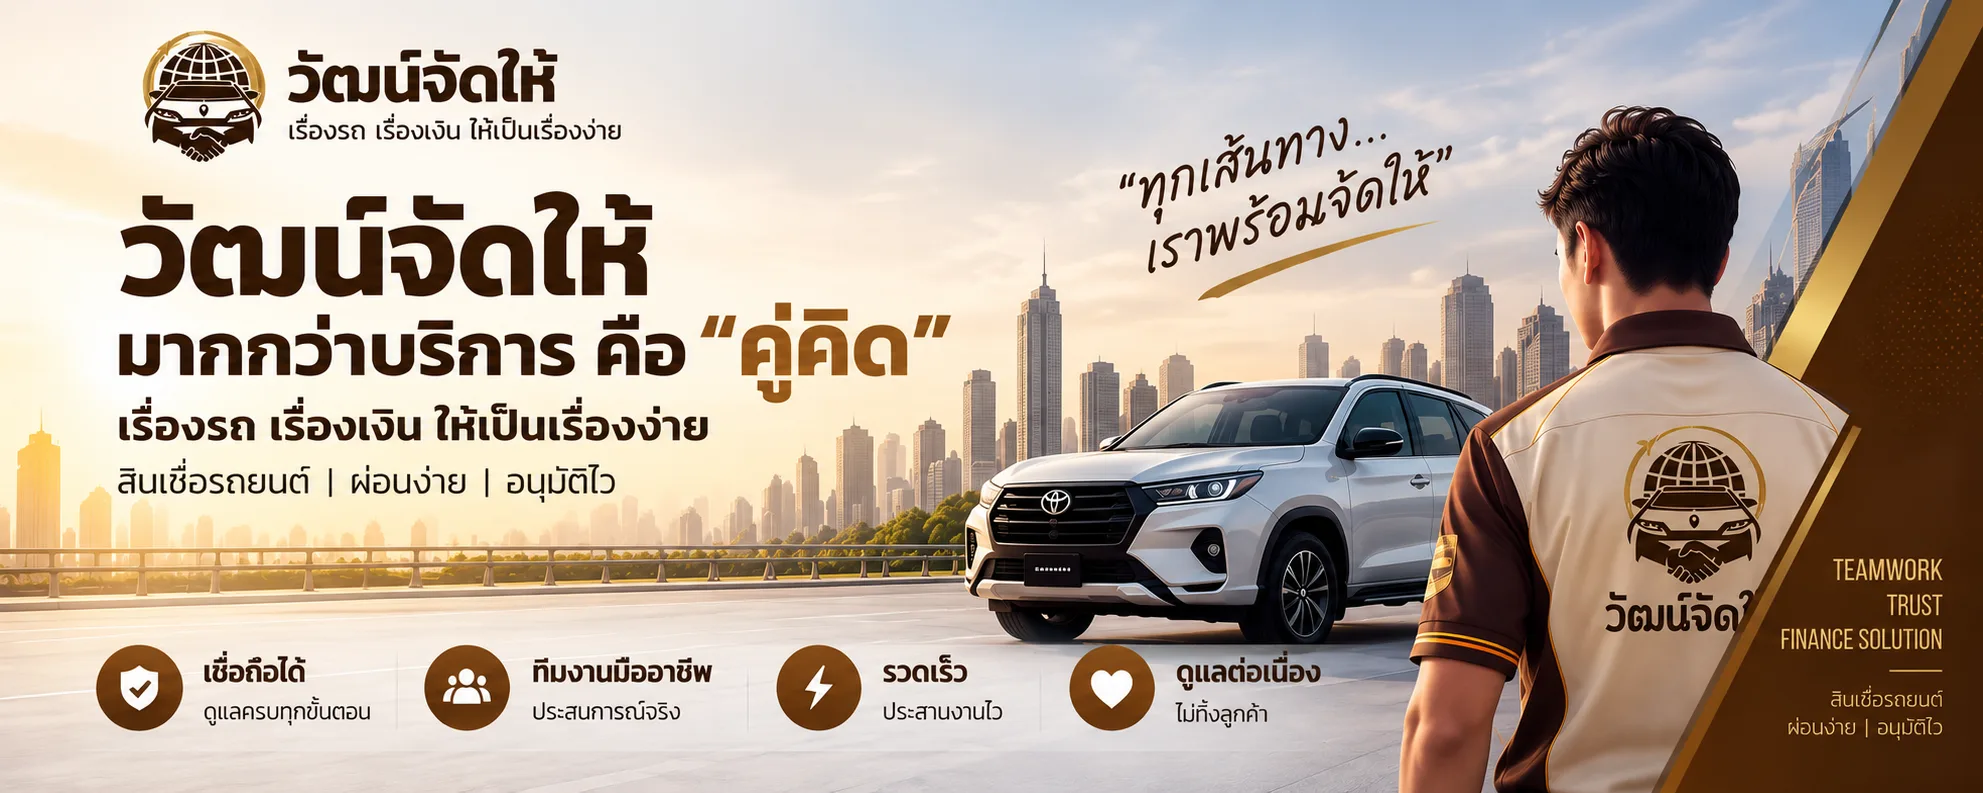
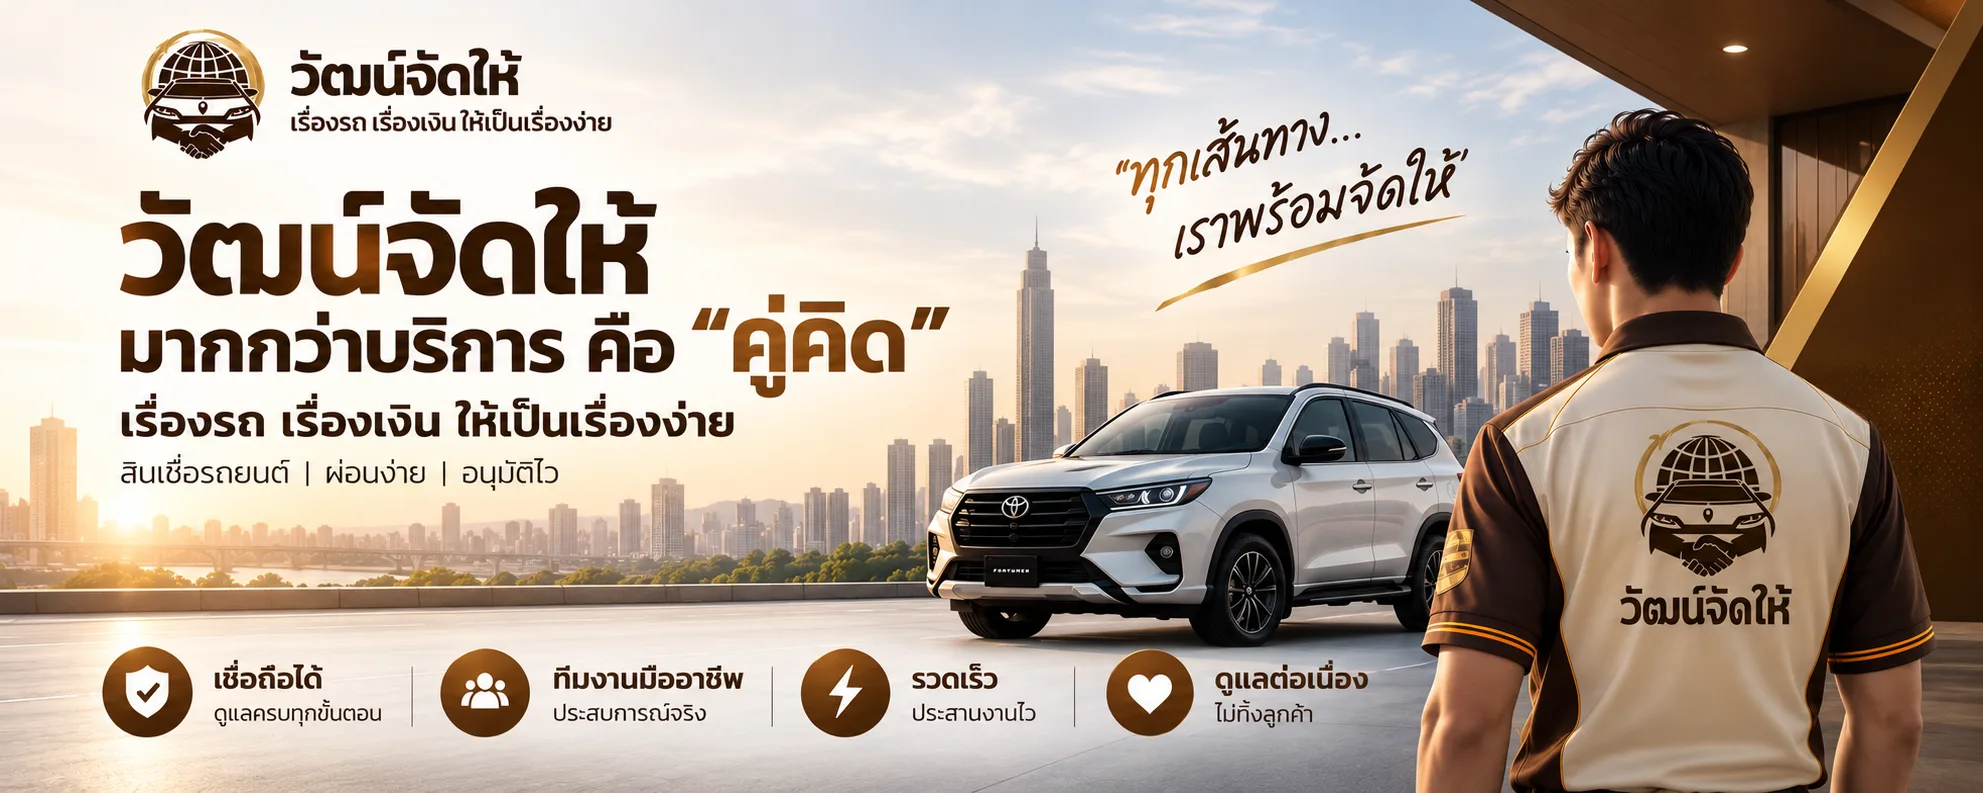
แก้แบนเนอร์ Hero ให้แสดงเต็มใบทุกขนาดหน้าจอ
- เอาการครอปแถบล่างบนจอเล็กออก (เดิมตัด 4 จุดเด่นในภาพหายไป)
- ใช้สัดส่วนจริงของไฟล์ ไม่ผูกกับขนาดภาพเดิมที่ hardcode ไว้
  เปลี่ยนภาพเป็นสัดส่วนอื่นก็ยังแสดงถูก
- ตัวอักษร 4 จุดเด่นที่แสดงซ้ำ เหลือเฉพาะจอเล็กกว่า 768px

diff --git a/components/Hero.tsx b/components/Hero.tsx
@@ -17,7 +17,8 @@ const icons = {
  *
  * • หัวข้อจริงยังมีอยู่ในรูปแบบ sr-only เพื่อ SEO และ screen reader
  * • ปุ่ม CTA อยู่ในแถบใต้ภาพ เพราะในภาพไม่มีปุ่มให้กด
- * • 4 จุดเด่นแสดงซ้ำเป็น HTML เฉพาะจอเล็ก เพราะตัวอักษรในภาพจะเล็กเกินอ่าน
+ * • แสดงภาพเต็มทั้งใบทุกขนาดหน้าจอ ไม่มีการครอป (ใช้สัดส่วนจริงของไฟล์)
+ * • 4 จุดเด่นแสดงซ้ำเป็นตัวอักษรเฉพาะจอเล็ก เพราะตัวหนังสือในภาพจะเล็กจนอ่านไม่ออก
  *
  * ถ้าเปลี่ยนไปใช้ภาพที่ "ไม่มีตัวหนังสือ" ให้ย้ายข้อความกลับมาทับบนภาพได้
  */
@@ -37,8 +38,8 @@ export default function Hero() {
         height={images.hero.height}
         priority
         sizes="100vw"
-        /* จอเล็ก: ครอปแถบ 4 จุดเด่นด้านล่างของภาพออก (แสดงเป็น HTML แทน) */
-        className="aspect-[1983/645] w-full object-cover object-top lg:aspect-auto lg:h-auto lg:object-fill"
+        /* แสดงเต็มใบตามสัดส่วนจริงของไฟล์ — ไม่ครอปส่วนไหนทิ้ง */
+        className="h-auto w-full"
       />
 
       {/* ───── แถบปุ่มใต้ภาพ ───── */}
@@ -62,8 +63,8 @@ export default function Hero() {
           </a>
         </div>
 
-        {/* 4 จุดเด่น — เฉพาะจอเล็ก (บนจอใหญ่อ่านได้จากในภาพแล้ว) */}
-        <ul className="container-page grid grid-cols-1 gap-3 pb-6 sm:grid-cols-2 lg:hidden">
+        {/* 4 จุดเด่น — เฉพาะจอเล็กมาก (จอใหญ่กว่านี้อ่านจากในภาพแบนเนอร์ได้แล้ว) */}
+        <ul className="container-page grid grid-cols-1 gap-3 pb-6 sm:grid-cols-2 md:hidden">
           {heroHighlights.map((item) => {
             const Icon = icons[item.icon];
             return (
